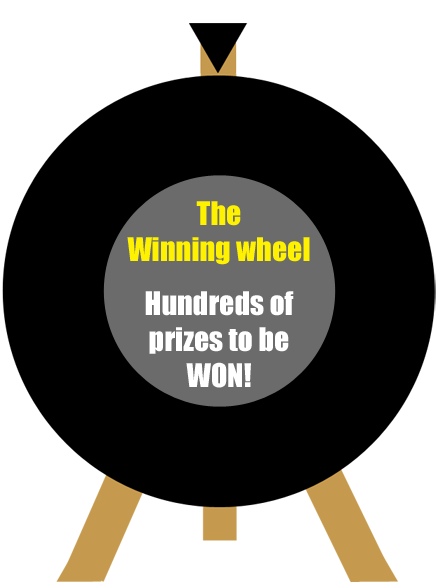
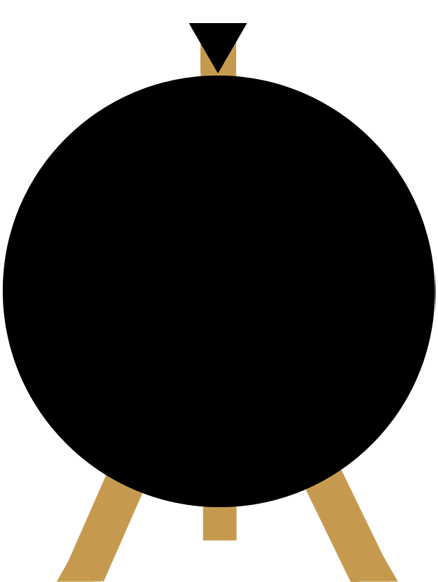
chane settings

Changed region(s): [[0.2374, 0.2784, 0.7717, 0.7113]]

diff --git a/index.html b/index.html
@@ -26,17 +26,16 @@
 -->
 <html>
     <head>
-        <title>Menu Squad - Winning Wheel</title>
+        <title>Menu Squad Winning Wheel</title>
         <link rel="stylesheet" href="main.css" type="text/css" />
-        <script type=src="https://cdnjs.cloudflare.com/ajax/libs/gsap/latest/TweenMax.min.js"></script>
-        <script src="TweenMax.min.js"></script>
+        <script type="text/javascript" src="Winwheel.js"></script>
+        <script src="https://cdnjs.cloudflare.com/ajax/libs/gsap/latest/TweenMax.min.js"></script>
     </head>
     <body>
         <div align="center">
-            <h1>Menu Squad - Winning Wheel</h1>
-            <p>A winning wheel is used to decide randomly who will take care of squad ceremonies like stand up</p>
+            <h1>Menu Squad - Agile ceremonies winning wheel</h1>
             <br />
-            <p>Choose a power setting then press the Spin button. You will be alerted with the name chosen when the spinning stops.</p>
+            <p>Choose a power setting then press the Spin button. You will be alerted with the name choosen when the spinning stops.</p>
             <br />
             <table cellpadding="0" cellspacing="0" border="0">
                 <tr>
@@ -83,12 +82,12 @@
                 'segments'      :       // Define segments including colour and text.
                 [
                    {'fillStyle' : '#eae56f', 'text' : 'Hassan'},
-                   {'fillStyle' : '#89f26e', 'text' : 'Hani'},
-                   {'fillStyle' : '#7de6ef', 'text' : 'Sviatlana'},
-                   {'fillStyle' : '#e7706f', 'text' : 'Ahmed'},
-                   {'fillStyle' : '#eae56f', 'text' : 'Anna'},
-                   {'fillStyle' : '#89f26e', 'text' : 'Devesh'},
-                   {'fillStyle' : '#7de6ef', 'text' : 'Moamen'},
+                   {'fillStyle' : '#89f26e', 'text' : 'Sviatlana'},
+                   {'fillStyle' : '#7de6ef', 'text' : 'Ahmed'},
+                   {'fillStyle' : '#e7706f', 'text' : 'Anna'},
+                   {'fillStyle' : '#eae56f', 'text' : 'Hani'},
+                   {'fillStyle' : '#89f26e', 'text' : 'Moamen'},
+                   {'fillStyle' : '#7de6ef', 'text' : 'Devesh'},
                    {'fillStyle' : '#e7706f', 'text' : 'Seyda'},
                    {'fillStyle' : '#eae56f', 'text' : 'Chhavi'}
                 ],
